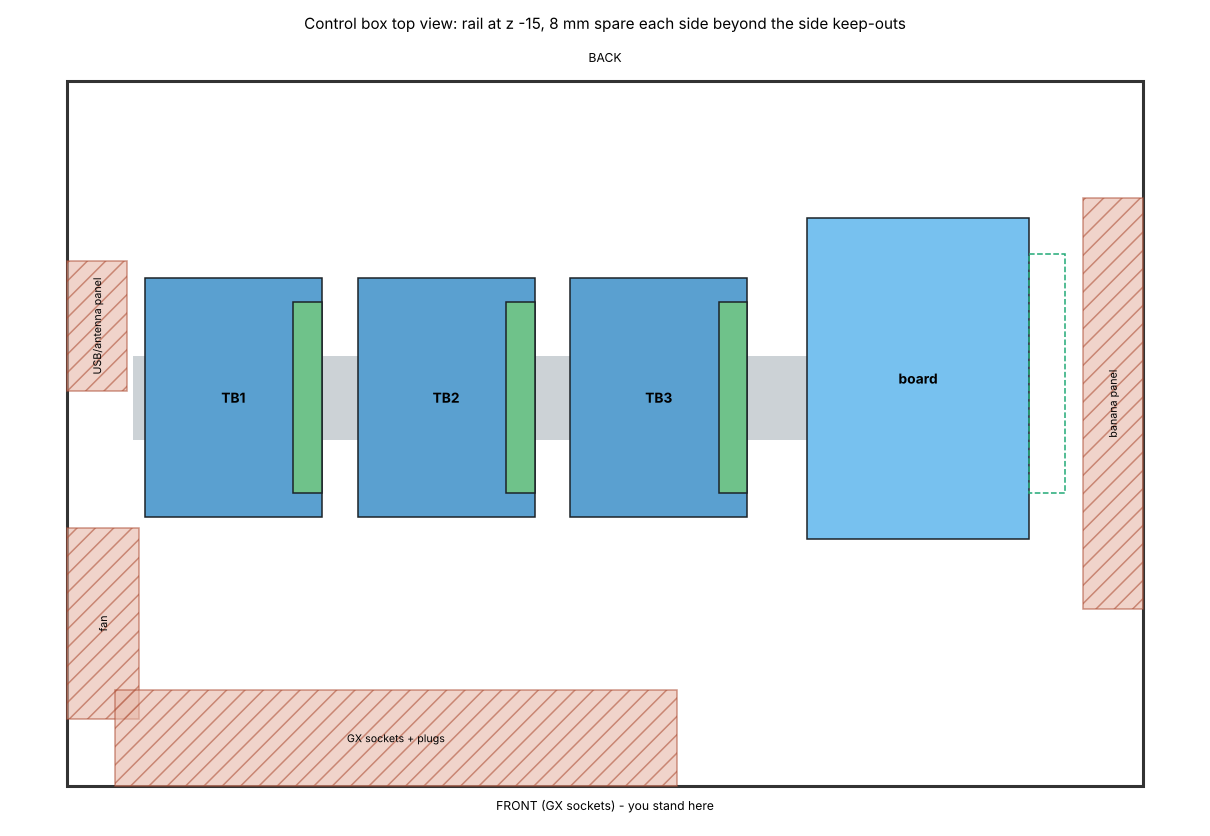
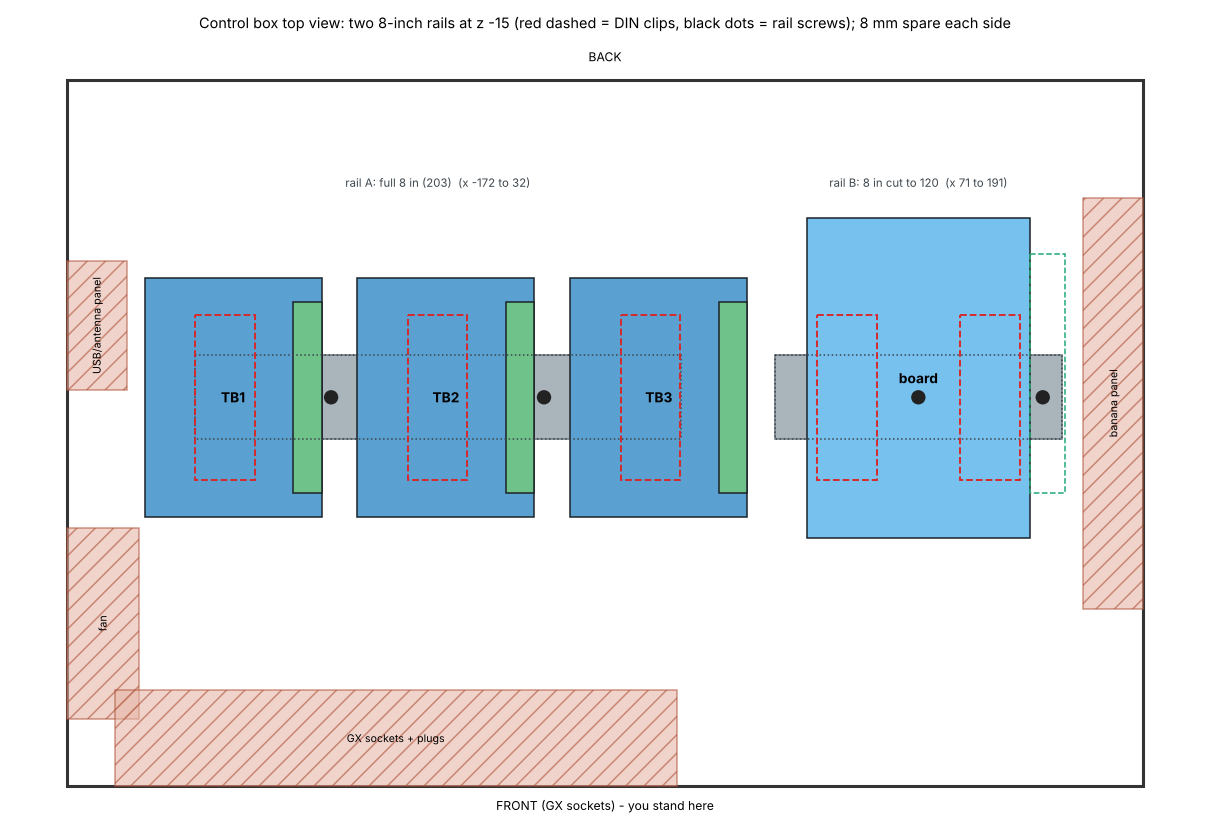
Layout check: two 8-inch rails (A full under the drivers, B cut to 120 under the board), clips and rail screws
Claude-Session: https://claude.ai/code/session_014yDbTWECCbjmRAeBb2Hkoy

diff --git a/hardware/parts/layout_control.py b/hardware/parts/layout_control.py
@@ -82,7 +82,20 @@ def main():
         x0, z0, x1, z1 = g.bounds
         ax.add_patch(plt.Rectangle((x0, z0), x1 - x0, z1 - z0, fc="#e7b7a8", ec="#b0533a", alpha=.6, hatch="//"))
         ax.text((x0 + x1) / 2, (z0 + z1) / 2, n, ha="center", va="center", fontsize=7, rotation=90 if x1 - x0 < 40 else 0)
-    ax.add_patch(plt.Rectangle((p["TB1"].bounds[0] - 5, RAIL_Z - 17.5), p["_io_bend"].bounds[0] - p["TB1"].bounds[0], 35, fc="#aab4bb", ec="none", alpha=.6))
+    # two 8-inch rails: A under the drivers (full 203), B under the board (cut to 120); bought clips 25 x 69
+    clips = [p[f"TB{i + 1}"].bounds[0] + TB["wall"] + TB["body"] / 2 for i in range(3)]
+    bcx = (p["board"].bounds[0] + p["board"].bounds[2]) / 2
+    clips += [bcx - 30, bcx + 30]
+    ra = (clips[0] - 12.5, clips[0] - 12.5 + 203.2)
+    rb = (bcx - 60, bcx + 60)
+    for (x0, x1), lab in ((ra, "rail A: full 8 in (203)"), (rb, "rail B: 8 in cut to 120")):
+        ax.add_patch(plt.Rectangle((x0, RAIL_Z - 17.5), x1 - x0, 35, fc="#aab4bb", ec="#6d7780", zorder=1))
+        ax.add_patch(plt.Rectangle((x0, RAIL_Z - 17.5), x1 - x0, 35, fc="none", ec="#3d464d", lw=1, ls=":", zorder=6))
+        ax.text((x0 + x1) / 2, RAIL_Z - 88, lab + f"  (x {x0:.0f} to {x1:.0f})", ha="center", fontsize=7.5, color="#3d464d", zorder=6)
+    screws = [(clips[0] + clips[1]) / 2, (clips[1] + clips[2]) / 2, bcx, rb[1] - 8]
+    print("rail A", [round(v, 1) for v in ra], "rail B", [round(v, 1) for v in rb])
+    print("clip centres", [round(c, 1) for c in clips], "rail screws", [round(v, 1) for v in screws])
+    CLIPS, SCREWS = clips, screws
     for n, g in p.items():
         x0, z0, x1, z1 = g.bounds
         if n == "_io_bend":
@@ -91,10 +104,14 @@ def main():
         if n.startswith("TB"):
             ax.add_patch(plt.Rectangle((x1 - TB["term"], z0 + 10), TB["term"], z1 - z0 - 20, fc="#6fc28a", ec="#1c2328"))
         ax.text((x0 + x1) / 2, (z0 + z1) / 2, n, ha="center", va="center", fontsize=9, weight="bold")
+    for cx in CLIPS:
+        ax.add_patch(plt.Rectangle((cx - 12.5, RAIL_Z - 34.5), 25, 69, fc="none", ec="#d22", lw=1.2, ls="--", zorder=7))
+    for sx in SCREWS:
+        ax.add_patch(plt.Circle((sx, RAIL_Z), 3, fc="#222", zorder=8))
     ax.text(0, ZF + 10, "FRONT (GX sockets) - you stand here", ha="center", fontsize=8); ax.text(0, ZB - 8, "BACK", ha="center", fontsize=8)
     ax.set_xlim(-XW - 15, XW + 15); ax.set_ylim(ZF + 14, ZB - 18);   # front at the bottom: seen from above, standing at the front
     ax.set_aspect("equal"); ax.axis("off")
-    ax.set_title(f"Control box top view: rail at z {RAIL_Z:g}, {spare / 2:.0f} mm spare each side beyond the side keep-outs", fontsize=10)
+    ax.set_title(f"Control box top view: two 8-inch rails at z {RAIL_Z:g} (red dashed = DIN clips, black dots = rail screws); {spare / 2:.0f} mm spare each side", fontsize=9.5)
     fig.tight_layout(); fig.savefig(OUT / "control_layout.png")
 
 
